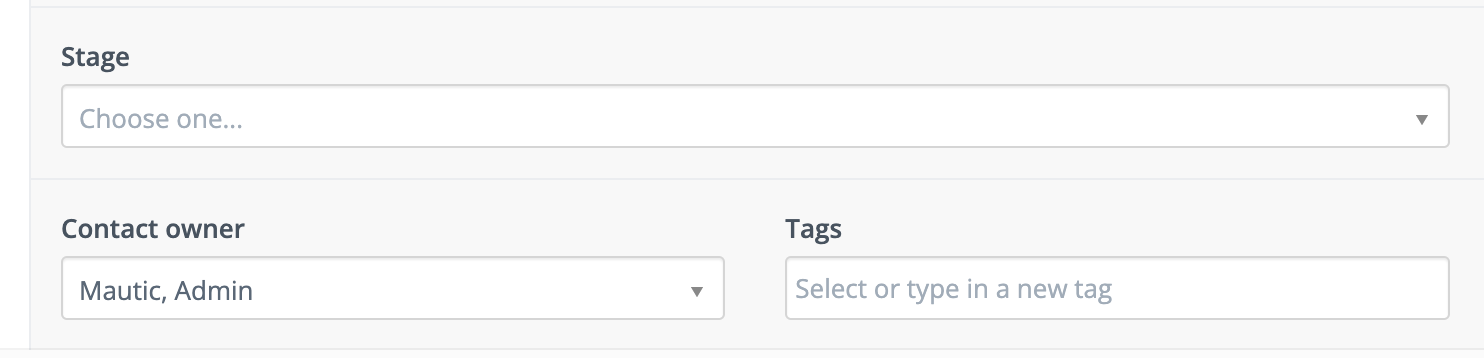
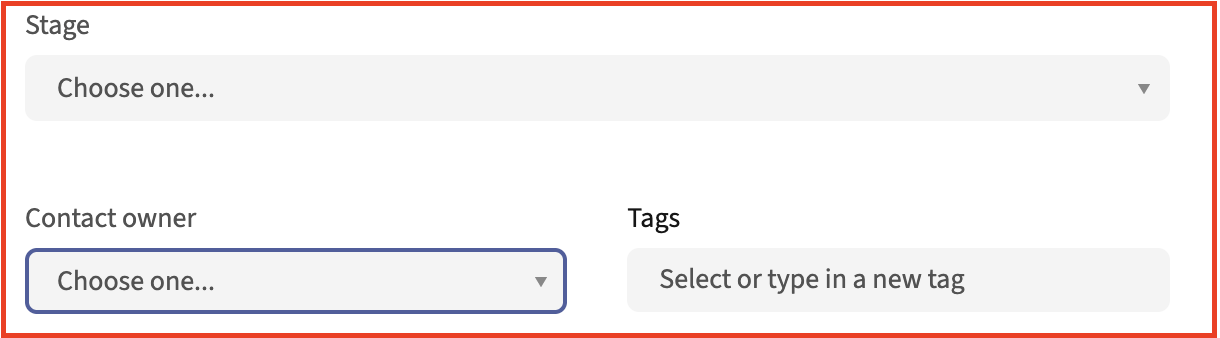
Update Stage movement image and add Lifecycle image

Changed region(s): [[0.0, 0.0, 1.0, 1.0], [0.5295, 0.7692, 0.8098, 0.8876], [0.4984, 0.5917, 0.5918, 0.6805]]

diff --git a/docs/stages/stages.rst b/docs/stages/stages.rst
@@ -83,4 +83,10 @@ The Stages in time widget shows how often Contacts change Stages. More change in
 Lifecycle
 *********
 
+.. image:: images/Lifecycle.png
+   :align: center
+   :alt: Visualizing Stage lifecycle
+
+|
+
 The lifecycle widget enables marketers to see the number of Contacts within a specified Segment in each Stage. You may include multiple Segments on the widget. It's possible to have more than one lifecycle widget to break down the information into separate graphs, but still display the data on the dashboard for multiple Segments.
